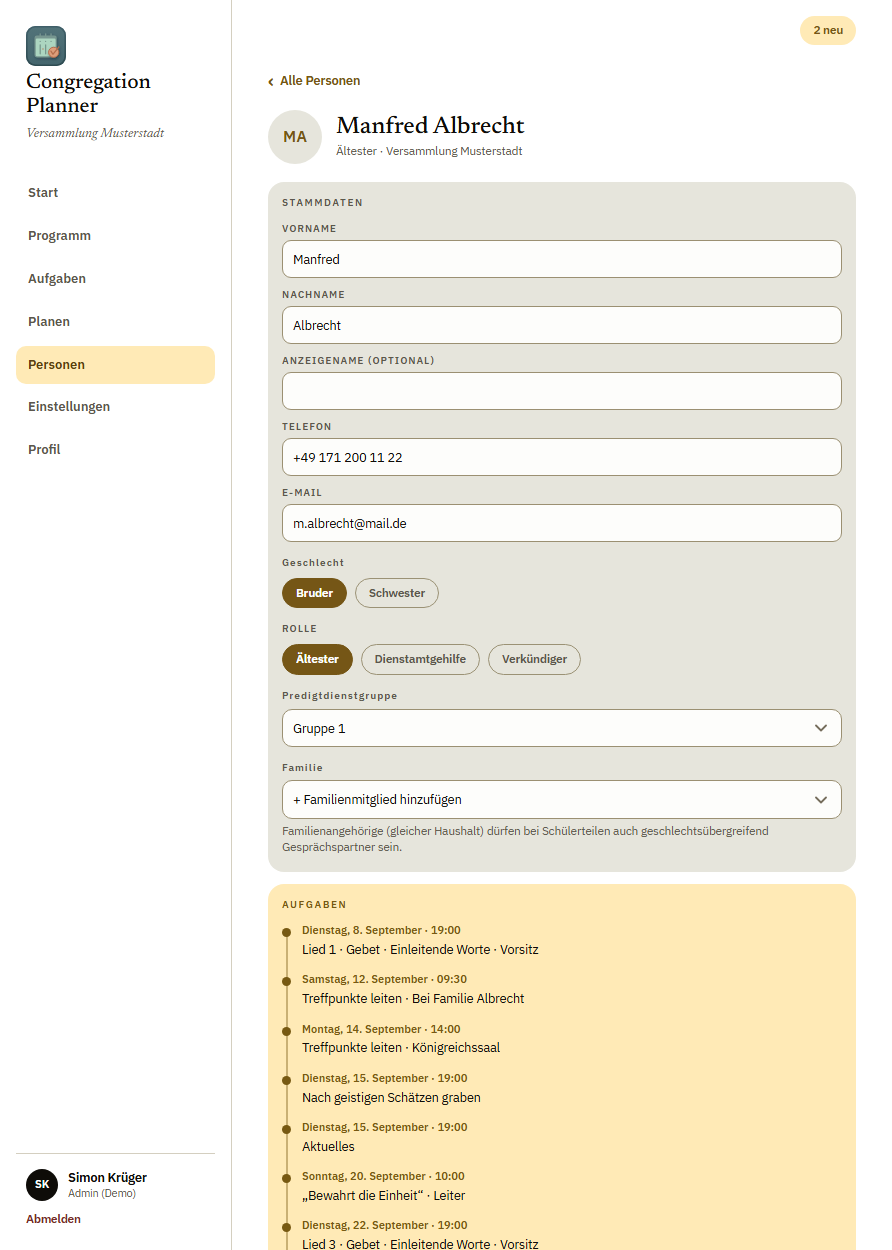
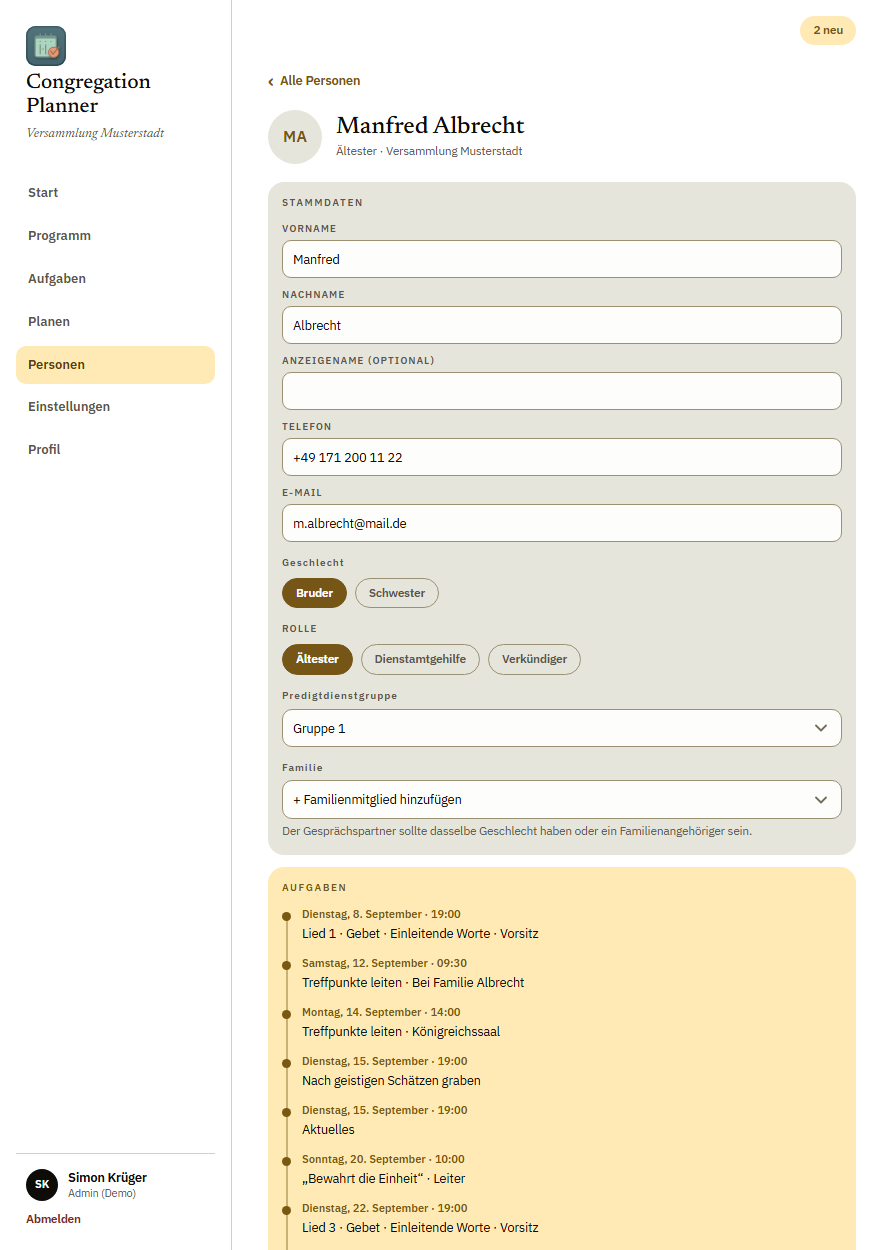
Familien-Block in 32 Sprachen uebersetzt; Luecken-Test gegen Rueckfaelle
familieLabel/familieHint/familieHinzu standen nur im englischen Overlay —
in den uebrigen 32 Sprachen zeigte der Familien-Abschnitt des
Personen-Details deshalb englischen Text.

Der Hinweistext ist jetzt in allen 34 Sprachen der amtliche Satz aus
Absatz 7 der jw.org-"Anweisungen" ("Der Gespraechspartner sollte
dasselbe Geschlecht haben oder ein Familienangehoeriger sein.") statt
einer eigenen Umschreibung — gemessen wie bei auxDesc, ueber die
Absatznummer (data-pnum="7"; die <p id="…"> sind NICHT sprachgleich
nummeriert, die arabische Fassung fuehrt die Nummer als Text).

Der vorhandene Vollstaendigkeits-Test lief durch dict() und sah den
EN-Rueckfall nicht — genau deshalb blieb die Luecke lange unbemerkt. Er
prueft jetzt zusaetzlich jedes Overlay direkt. Dabei kamen 92 weitere
Schluessel ans Licht, die in vielen Sprachen englisch erscheinen
(Anmeldung, Push, Schriftgroesse, Offline, Einspringen, Dubletten,
a11y). Sie stehen als benannte Luecken-Liste im Test: neue Schluessel
ohne Uebersetzung fallen ab sofort auf, die Liste darf nur kuerzer
werden.

Changed region(s): [[0.3027, 0.6552, 0.9686, 1.0]]

diff --git a/src/i18n/ui.test.ts b/src/i18n/ui.test.ts
@@ -2,6 +2,37 @@ import { beforeAll, describe, expect, it } from 'vitest'
 import { APP_LANGS } from './langs'
 import { DE, dict, loadOverlay } from './ui'
 
+/**
+ * Schlüssel, die (noch) nicht in jedem Overlay stehen und deshalb in vielen
+ * Sprachen englisch erscheinen — Altbestand aus Funktionen, die nachträglich
+ * dazukamen (Anmeldung/Registrierung, Push, Schriftgröße, Offline-Banner,
+ * Einspringen, Dubletten, a11y-Beschriftungen).
+ *
+ * Die Liste darf nur KÜRZER werden: ein neu eingeführter Schlüssel ohne
+ * Übersetzung lässt den Test unten scheitern.
+ */
+const LUECKEN = new Set([
+  'a11yClose', 'a11yCongLang', 'a11yDecrease', 'a11yIncrease', 'a11yMainNav',
+  'a11yMoveDown', 'a11yMoveUp', 'a11yNextMonth', 'a11yNextWeek', 'a11yPrevMonth',
+  'a11yPrevWeek', 'a11yRemove', 'a11yTime', 'a11yWeekday', 'absagen', 'anfangsliedLbl',
+  'appInstallieren', 'codeEinloesen', 'codePh', 'congLabel', 'demoSuffix',
+  'dochBestaetigen', 'dublettenHint', 'dublettenRow', 'dublettenTitle', 'einspringenHint',
+  'einspringenTitle', 'emailKv', 'ersatzHint', 'fsLeiterLbl', 'invAlreadyMember',
+  'invCodeInvalid', 'kannNicht', 'keinePersonOpt', 'kontoErstellen', 'laedt', 'liedNrPh',
+  'loadAufgabe', 'loadFrei', 'loadHilfsdienst', 'neuesPasswort', 'nurMitglieder',
+  'oderPersonWaehlen', 'offlineBanner', 'offlineBannerHint', 'offlineReadOnly',
+  'offlineRetry', 'partnerEntfernen', 'partnerHinzu', 'privSchulungPartner',
+  'privWtLeiter', 'privWtVertreter', 'pushAktivieren', 'pushIosHint', 'pushPromptIos',
+  'pushPromptText', 'pushPromptTitle', 'pwSpeichern', 'pwWiederholen', 'recoveryTitle',
+  'rednerNamePh', 'rednerVersPh', 'regMailHinweis', 'registrieren', 'resetMailHinweis',
+  'schriftGroesser', 'schriftGross', 'schriftKlein', 'schriftSehrGross', 'schriftStandard',
+  'schriftgroesse', 'stDemoLaden', 'stErneut', 'stFehler', 'stFehlerText', 'stKeineVers',
+  'stKeineVersText', 'stLeer', 'stLeerText', 'stLeerTextPlaner', 'toastErsatzGesucht',
+  'toastPwGeaendert', 'toastPwMismatch', 'toastUebernommen', 'toastUebernommenKonflikt',
+  'uebernehmen', 'uebernehmenBtn', 'versammlungTag', 'vortragThemaPh', 'wtRollenHint',
+  'wtRollenLabel', 'zurAnmeldung',
+])
+
 describe('UI-Wörterbücher (Fallback-Kette DE ← EN ← Sprache)', () => {
   const deKeys = Object.keys(DE).sort()
 
@@ -20,6 +51,29 @@ describe('UI-Wörterbücher (Fallback-Kette DE ← EN ← Sprache)', () => {
         expect(d[key].length, `${code}.${key}`).toBeGreaterThan(0)
       }
     }
+  })
+
+  it('jedes Overlay übersetzt jeden Schlüssel selbst (kein stiller EN-Rückfall)', async () => {
+    // Die Prüfung oben geht durch dict() und sieht deshalb den EN-Rückfall
+    // nicht: ein im Overlay fehlender Schlüssel fiele dort nicht auf. Genau so
+    // stand der Familien-Block monatelang in 32 Sprachen englisch da.
+    const module = import.meta.glob<{ default: Record<string, string> }>('./overlays/*.ts')
+    const fehlend: string[] = []
+    for (const [pfad, laden] of Object.entries(module)) {
+      const code = pfad.slice('./overlays/'.length, -'.ts'.length)
+      const overlay = (await laden()).default
+      for (const key of deKeys) {
+        if (!LUECKEN.has(key) && !(key in overlay)) fehlend.push(`${code}.${key}`)
+      }
+    }
+    expect(fehlend).toEqual([])
+  })
+
+  it('die Lücken-Liste enthält nichts, was längst übersetzt ist', () => {
+    // Hält die Liste ehrlich: wird eine Lücke geschlossen, muss ihr Eintrag
+    // hier verschwinden — sonst schützt die Liste bald nichts mehr.
+    const deKeySet = new Set(deKeys)
+    expect([...LUECKEN].filter((k) => !deKeySet.has(k))).toEqual([])
   })
 
   it('Platzhalter ({n}, {name}, …) stimmen in jeder Sprache mit DE überein', () => {

diff --git a/src/i18n/de.ts b/src/i18n/de.ts
@@ -95,7 +95,9 @@ export const DE = {
     appInstallieren: 'App installieren',
     pushIosHint: 'Für Benachrichtigungen die App installieren: Teilen → „Zum Home-Bildschirm".',
     familieLabel: 'Familie',
-    familieHint: 'Familienangehörige (gleicher Haushalt) dürfen bei Schülerteilen auch geschlechtsübergreifend Gesprächspartner sein.',
+    // Amtlicher Wortlaut aus Absatz 7 der jw.org-„Anweisungen" — in jeder
+    // Sprache der dortige Satz, statt einer eigenen Umschreibung.
+    familieHint: 'Der Gesprächspartner sollte dasselbe Geschlecht haben oder ein Familienangehöriger sein.',
     familieHinzu: '+ Familienmitglied hinzufügen',
     partnerHinzu: '+ Gesprächspartner',
     partnerEntfernen: '– Gesprächspartner',

diff --git a/src/i18n/overlays/el.ts b/src/i18n/overlays/el.ts
@@ -259,6 +259,9 @@ export default {
   "aufseherLbl": "ΕΠΙΣΚΟΠΟΣ ΟΜΑΔΑΣ",
   "gehilfeLbl": "ΒΟΗΘΟΣ",
   "gruppeLbl": "Ομάδα υπηρεσίας",
+  "familieLabel": "Οικογένεια",
+  "familieHint": "Ο βοηθός πρέπει να είναι είτε του ίδιου φύλου με τον σπουδαστή είτε μέλος της οικογένειάς του.",
+  "familieHinzu": "+ Προσθήκη μέλους οικογένειας",
   "mitgliederN": "{n} μέλη",
   "mitglied1": "1 μέλος",
   "gruppeHinzu": "+ ΠΡΟΣΘΗΚΗ ΟΜΑΔΑΣ",

diff --git a/src/i18n/overlays/bg.ts b/src/i18n/overlays/bg.ts
@@ -259,6 +259,9 @@ export default {
   "aufseherLbl": "НАДЗОРНИК НА ГРУПА",
   "gehilfeLbl": "ПОМОЩНИК",
   "gruppeLbl": "Група за служба",
+  "familieLabel": "Семейство",
+  "familieHint": "Помощникът трябва да е от същия пол или да е член на семейството.",
+  "familieHinzu": "+ Добавяне на член на семейството",
   "mitgliederN": "{n} членове",
   "mitglied1": "1 член",
   "gruppeHinzu": "+ ДОБАВИ ГРУПА",

diff --git a/src/i18n/overlays/en.ts b/src/i18n/overlays/en.ts
@@ -110,7 +110,7 @@ export default {
   "appInstallieren": "Install app",
   "pushIosHint": "To get notifications, install the app: Share → \"Add to Home Screen\".",
   "familieLabel": "Family",
-  "familieHint": "Family members (same household) may also be conversation partners across genders in student assignments.",
+  "familieHint": "The assistant should be of the same gender or should be a family member.",
   "familieHinzu": "+ Add family member",
   "partnerHinzu": "+ Conversation partner",
   "partnerEntfernen": "– Conversation partner",

diff --git a/src/i18n/overlays/ru.ts b/src/i18n/overlays/ru.ts
@@ -259,6 +259,9 @@ export default {
   "aufseherLbl": "НАДЗИРАТЕЛЬ ГРУППЫ",
   "gehilfeLbl": "ПОМОЩНИК",
   "gruppeLbl": "Группа служения",
+  "familieLabel": "Семья",
+  "familieHint": "Помощник должен быть одного пола с выступающим или членом его семьи.",
+  "familieHinzu": "+ Добавить члена семьи",
   "mitgliederN": "{n} членов",
   "mitglied1": "1 член",
   "gruppeHinzu": "+ ДОБАВИТЬ ГРУППУ",

diff --git a/src/i18n/overlays/uk.ts b/src/i18n/overlays/uk.ts
@@ -259,6 +259,9 @@ export default {
   "aufseherLbl": "НАГЛЯДАЧ ГРУПИ",
   "gehilfeLbl": "ПОМІЧНИК",
   "gruppeLbl": "Група служіння",
+  "familieLabel": "Сім’я",
+  "familieHint": "Напарник учня має бути тієї самої статі, що і він, або членом його сім’ї.",
+  "familieHinzu": "+ Додати члена сім’ї",
   "mitgliederN": "{n} членів",
   "mitglied1": "1 член",
   "gruppeHinzu": "+ ДОДАТИ ГРУПУ",

diff --git a/src/i18n/overlays/ur.ts b/src/i18n/overlays/ur.ts
@@ -115,6 +115,9 @@ export default {
   "aufseherLbl": "گروپ نگہبان",
   "gehilfeLbl": "معاون",
   "gruppeLbl": "مُنادی کا گروپ",
+  "familieLabel": "خاندان",
+  "familieHint": "طالبِعلم کے مددگار کو اُس کا ہمجنس یا رشتےدار ہونا چاہیے۔",
+  "familieHinzu": "+ خاندان کا فرد شامل کریں",
   "mitgliederN": "{n} ارکان",
   "mitglied1": "۱ رکن",
   "gruppeHinzu": "+ گروپ شامل کریں",

diff --git a/src/i18n/overlays/fa.ts b/src/i18n/overlays/fa.ts
@@ -115,6 +115,9 @@ export default {
   "aufseherLbl": "ناظر گروه",
   "gehilfeLbl": "دستیار",
   "gruppeLbl": "گروه خدمت موعظه",
+  "familieLabel": "خانواده",
+  "familieHint": "دستیار او نباید از جنس مخالف باشد، مگر این که عضوی از خانوادهاش باشد.",
+  "familieHinzu": "+ افزودن عضو خانواده",
   "mitgliederN": "{n} عضو",
   "mitglied1": "۱ عضو",
   "gruppeHinzu": "+ افزودن گروه",

diff --git a/src/i18n/overlays/ar.ts b/src/i18n/overlays/ar.ts
@@ -118,6 +118,9 @@ export default {
   "aufseherLbl": "ناظر الفريق",
   "gehilfeLbl": "المساعد",
   "gruppeLbl": "فريق خدمة الحقل",
+  "familieLabel": "العائلة",
+  "familieHint": "يجب أن يكون المعاون من الجنس نفسه أو أحد أفراد عائلته.",
+  "familieHinzu": "+ إضافة أحد أفراد العائلة",
   "mitgliederN": "{n} أعضاء",
   "mitglied1": "عضو واحد",
   "gruppeHinzu": "+ إضافة فريق",

diff --git a/src/i18n/overlays/vi.ts b/src/i18n/overlays/vi.ts
@@ -259,6 +259,9 @@ export default {
   "aufseherLbl": "GIÁM THỊ NHÓM",
   "gehilfeLbl": "NGƯỜI PHỤ TÁ",
   "gruppeLbl": "Nhóm rao giảng",
+  "familieLabel": "Gia đình",
+  "familieHint": "Người phụ giúp nên là người cùng phái hoặc một thành viên trong gia đình.",
+  "familieHinzu": "+ Thêm thành viên gia đình",
   "mitgliederN": "{n} thành viên",
   "mitglied1": "1 thành viên",
   "gruppeHinzu": "+ THÊM NHÓM",

diff --git a/src/i18n/overlays/he.ts b/src/i18n/overlays/he.ts
@@ -115,6 +115,9 @@ export default {
   "aufseherLbl": "משגיח הקבוצה",
   "gehilfeLbl": "עוזר",
   "gruppeLbl": "קבוצת שירות השדה",
+  "familieLabel": "משפחה",
+  "familieHint": "השותף צריך להיות בן אותו מין או קרוב משפחה.",
+  "familieHinzu": "+ הוספת בן משפחה",
   "mitgliederN": "{n} חברים",
   "mitglied1": "חבר אחד",
   "gruppeHinzu": "+ הוסף קבוצה",
